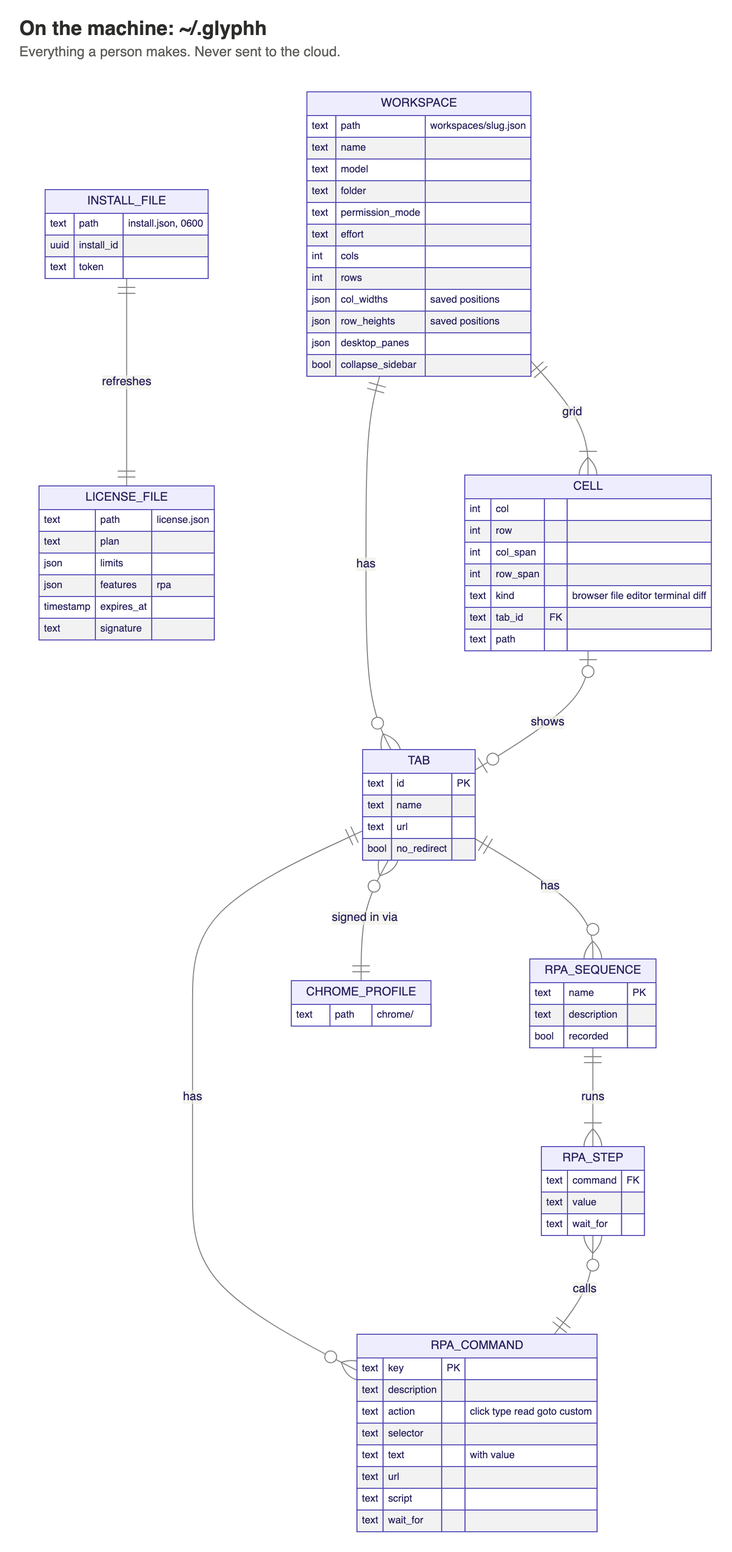
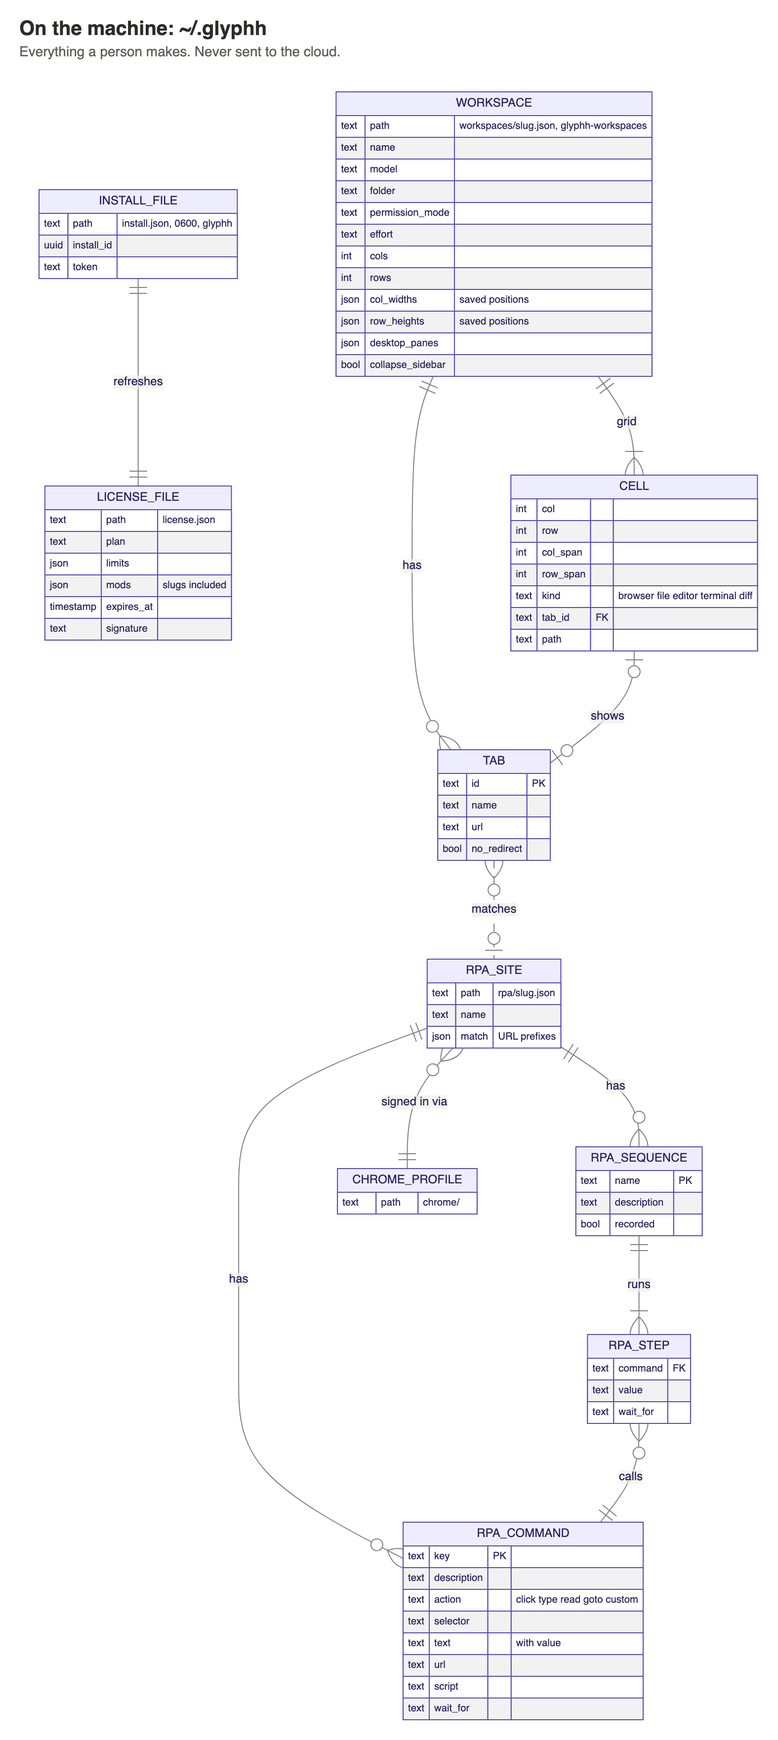
Architecture: Glyphh makes mods for Claude (Chris, 2026-10-14)
Separate mods from one marketplace (glyphh-ai/releases), one account and one
subscription: glyphh (account, license, panels and the browser machine, a
local MCP server serving MCP App panels), glyphh-workspaces and glyphh-rpa.
Pro and Team include every mod, new ones too; Free the free ones. Data model:
a mods catalog and plan_versions.all_mods replace the rpa flag; the license
carries the mods it includes; RPA sites live in ~/.glyphh/rpa.

diff --git a/docs/architecture.md b/docs/architecture.md
@@ -1,92 +1,146 @@
 # Glyphh
 
-The one doc for the relaunch (Chris, 2026-10-13): the [product](#product), the [architecture](#architecture), the [data model](#data-model) and the [plans](#plans). It replaces the programs, rrotor and machines architecture; that version is in git history (`25c1288`).
+The one doc for the relaunch (Chris, 2026-10-13 and 14): the [product](#product), the [architecture](#architecture), the [data model](#data-model) and the [plans](#plans). It replaces the programs, rrotor and machines architecture; that version is in git history (`25c1288`).
 
 ## Product
 
-Glyphh is a **Claude mod**: workspaces inside Claude. A workspace is a layout grid of live web tabs plus the Claude session it runs: model, folder, permission mode and effort. Switching workspaces switches all of it.
+**Glyphh makes mods for Claude, as a business** (Chris, 2026-10-14). A mod is a Claude Code plugin that adds commands, tools and panels to Claude. Each mod is its own product, installed on its own from one Glyphh marketplace; one Glyphh account and one subscription turn them on.
 
-- **Everything is in Claude.** Every screen is a panel Claude renders: sign in, account, members, invites, plan, seats. There is no Glyphh app, no Glyphh web UI and no server-rendered page.
-- **Desktop first, then the CLI.** The same mod runs in both. In the CLI it looks and feels CLI native.
-- **It looks like Claude.** Fonts and colors follow whichever Claude theme the person picked, on both surfaces.
+The first mods:
+
+| Mod | What it is | Plans |
+|---|---|---|
+| `glyphh` | The account: sign in, license, account, org, plan and billing panels, and the browser machine every other mod uses | Every plan; the others depend on it |
+| `glyphh-workspaces` | Workspaces: a layout grid of live web tabs plus the Claude session it runs (model, folder, permission mode, effort); switching workspaces switches all of it | Every plan; Free up to 2 workspaces |
+| `glyphh-rpa` | A website as tools: commands and sequences on a site, a live tab in a panel in Claude, take control, record a task once and run it | Pro and Team |
+
+- **Pro and Team include every mod**, and every mod as it ships, so the subscription grows in value. One mod sold on its own as an add-on can come later without a redesign.
+- **Everything is in Claude.** Every screen is a panel Claude shows. There is no Glyphh app and no Glyphh web UI; the only pages are the device sign-in's and Stripe's own.
+- **Desktop first, then the CLI.** The same mods run in both. In the CLI they look and feel CLI native.
+- **They look like Claude.** Fonts and colors follow the person's Claude theme.
 - **Functional first.** Every screen works before design draws it; design then builds the screens.
 
 ## Architecture
 
+![The whole system](img/architecture.png)
+
 ```mermaid
 flowchart TB
     subgraph Machine["The person's machine"]
-        Mod["Glyphh mod in Claude<br/>desktop and CLI, panels"]
-        Chrome["Helper Chrome<br/>tabs, sign-ins, RPA"]
-        Local[("~/.glyphh<br/>workspaces, layouts, RPA, profile")]
-        Mod --> Chrome
-        Mod --> Local
-        Chrome --> Local
+        subgraph Claude["Claude, desktop or CLI"]
+            Base["glyphh<br/>account, panels"]
+            WS["glyphh-workspaces"]
+            RPA["glyphh-rpa"]
+        end
+        BM["Browser machine<br/>glyphh's local MCP server"]
+        Chrome["Chrome<br/>tabs, sign-ins"]
+        Local[("~/.glyphh")]
+        Base --> BM
+        WS --> BM
+        RPA --> BM
+        BM --> Chrome
+        Base --> Local
+        WS --> Local
+        RPA --> Local
     end
 
     subgraph Cloud["Glyphh cloud"]
-        API["API server<br/>accounts, org, invites, seats, installs"]
+        API["API server<br/>accounts, org, seats, installs, license"]
         DB[("Postgres")]
         API --- DB
     end
 
+    Market["glyphh-ai/releases<br/>the marketplace"]
     Stripe["Stripe"]
     SignIn["Google, GitHub"]
 
-    Mod <-- "device flow, license, counts" --> API
+    Base <-- "device flow, license" --> API
+    Market -- "/plugin install" --> Claude
     API --> Stripe
     API --> SignIn
 ```
 
-Two parts: the mod on the machine, and one small server. **What a person makes stays on their machine; the cloud holds only who they are, their org and what they pay for.**
+Three parts: the mods on the machine, one small server, and the marketplace they are installed from. **What a person makes stays on their machine; the cloud holds only who they are, their org and what they pay for.**
 
-### The mod
+### Mods and how they are installed
 
-Built from `~/development/glyphh/workspaces` (its README holds what a Claude mod can and cannot do).
+- **A mod is a Claude Code plugin** whose hooks are a code module (`hooks/hooks.json` naming `register.tsx`, with `.claude-plugin/plugin.json`). It hooks Claude's events (session start, commands, tool calls, drawing) and reaches everything else through the engine (`$`): files, HTTP, processes, panels, MCP servers.
+- **Installed from the marketplace**, in a terminal: `/plugin install glyphh-workspaces --marketplace glyphh-ai/releases`. Installed at the user scope, a mod loads in every session, the desktop app's Code tab too. Every mod depends on `glyphh` (`plugin.json` `dependencies`).
+- **Source and releases are apart.** `glyphh-ai/glyphh` (private) holds the source, one folder per mod (`mods/glyphh`, `mods/glyphh-workspaces`, `mods/glyphh-rpa`), with their tests. `glyphh-ai/releases` (public) is the marketplace: `.claude-plugin/marketplace.json` listing every mod, and each mod as one built, minified module. Nobody installing a mod gets the source, the tests or the history.
+- **Each mod checks the license** when a session starts: a mod the license does not include draws only a panel that says which plans include it.
+- **Under development** a mod runs from its folder: `claude --plugin-dir <folder>`, or on the desktop linked into the session's mods folder with hot reloading.
+
+### Two kinds of panel
+
+| | Mod panels | MCP App panels |
+|---|---|---|
+| What | Drawn from Claude's own elements: boxes, text, buttons, inputs, selects, links, markdown, SVG | An HTML page with scripts, which an MCP tool returns (`text/html;profile=mcp-app`, at a `ui://` address) and Claude shows in a frame |
+| Can | Forms, lists, actions, at once on desktop and CLI | Live pictures, video, take control, anything a page can do; the host passes its theme as CSS variables (`--color-*`, `--font-*`) |
+| Cannot | Pictures (desktop), scripts, video | Draw in the CLI's own terminal |
+| Used for | Account, org, plan, billing, workspaces, a site's commands | A live tab, take control, record |
+
+Proved on 2026-10-12 (`glyphh-ai/server`, branch `proto/stream`): an MCP App panel in Claude showed a machine's screen live and took control of it. What it taught still holds: Claude's panel frame preflights every POST; tickets stay out of URLs; a panel's `ui://` address carries its version, since hosts keep its HTML by address.
+
+### `glyphh`: the account and the browser machine
+
+- **Sign in** by device flow: `/glyphh` shows the code and opens the link in Claude's browser pane (in the CLI, prints it); the person signs in with Google or GitHub; the mod, polling, gets the install's token. One sign-in serves every mod.
+- **License:** fetched and checked (Ed25519) at start and refreshed daily; every mod reads it.
+- **Panels** (mod panels): account, org, plan, billing.
+- **The browser machine:** `glyphh` ships a local MCP server (the plugin's own, started by Claude), which owns Chrome:
+    - Chrome driven over a private pipe (`--remote-debugging-pipe`), never a debugging port; one profile on disk, so a site signed in once stays signed in. One owner, since Chrome opens a profile once.
+    - Render, watch, take control, drive and record are its MCP tools; the other mods call them (`$.mcp.call`), and Claude calls those the mods allow.
+    - Its MCP App panels show a tab live (frames, or WebRTC where the frame allows it) with take control: the person's clicks, keys and paste go into the tab while Claude waits, and Claude sees no picture while they hold it, so a password or a code never reaches the model.
+    - Only this machine's Claude reaches it; other agents could pair with it later.
+
+### `glyphh-workspaces`
+
+Built from `~/development/glyphh/workspaces` (its README holds what a mod can and cannot do).
 
 - **Workspaces:** switch with `/dip`, by number or name. A workspace sets the session's model, folder, permission mode and effort, and opens its grid.
 - **Tabs:** each browser cell is a tab with a URL. **No redirect** keeps a tab in its cell when the site tries to hand itself to its native app (Slack, Teams, Zoom, Discord, Notion), as `glyphh-ai/app`'s `forceWeb` did.
-- **Live pages:** the helper Chrome renders every tab, driven over a private pipe (`--remote-debugging-pipe`), never a debugging port.
-    - **Desktop:** the layout as one page in Claude's browser pane, each tab as WebRTC video (JPEG when WebRTC fails); clicks, keys and scrolls go back over CDP.
+- **Live pages:** the browser machine renders every tab.
+    - **Desktop:** the layout as one page in Claude's browser pane (`/stream`), each tab as WebRTC video (JPEG when WebRTC fails); clicks, keys and scrolls go back.
     - **CLI:** frames drawn in the terminal with the kitty graphics protocol (Ghostty, kitty), the grid in characters, dividers dragged with the mouse.
-- **Sign-ins last:** the helper Chrome keeps one profile on disk, so a tab signed in once stays signed in across Claude restarts.
-- **RPA:** each tab can carry commands (click, type, read, go to, a script) and sequences of them, in `glyphh-ai/app`'s format (`src/shared/rpa.ts`). Each becomes a tool Claude can call. They run against the tab over CDP.
-- **Take control:** the person's clicks, keys and paste go into a tab while Claude waits; Claude sees no screenshot while they hold it, so a password or a code never reaches the model. Control is handed back with one click.
-- **Record:** the person does a task once in a tab and the helper captures each step (click, type, go to, with its selector) as an RPA sequence; they name it, fix or drop steps, test-run it and save it, and it becomes a tool. Recording happens in a panel in Claude: the tab live, with Record, Stop and the steps as they are captured.
-- **The helper is the machine.** Render, watch, take control, drive and record are the helper's own local API; the mod is its client. Only Claude uses it for now; other agents could pair with it later.
-- **Panels:** every account screen is a panel the mod renders in Claude, reading and writing the API.
-- **Theme:** the mod reads the person's Claude theme and draws with its fonts and colors.
+- **Saved as it is left:** dragged sizes are written back to the workspace's file.
+- **The limit:** the mod registers each workspace's name with the server when it creates one; past the plan's limit it is refused.
+- **Panel** (mod panel): list, create, edit (model, folder, permission mode, effort, grid, tabs), delete.
+
+### `glyphh-rpa`
+
+- **Sites:** a site is a URL it matches, with its commands (click, type, read, go to, a script, in `glyphh-ai/app`'s format, `src/shared/rpa.ts`) and sequences of them. Each command and sequence becomes a tool Claude can call; they run in the browser machine's tab for that site, so a workspace's tab on that site gets them too.
+- **Record:** the person does a task once in a live tab and each step (click, type, go to, with its selector) is captured as a sequence; they name it, fix or drop steps, test-run it and save it, and it becomes a tool.
+- **Panels:** the record panel (MCP App: the tab live, take control, Record and Stop, the steps as they are captured); a site's commands and sequences (mod panel: run, edit, delete).
 
 ### On the machine: `~/.glyphh`
 
 Nothing here goes to the cloud.
 
-| Path | What |
-|---|---|
-| `install.json` | This install's id and token, mode 0600 |
-| `license.json` | The signed license: plan, limits, features, expiry |
-| `workspaces/<slug>.json` | A workspace: model, folder, permission mode, effort, the grid with its saved positions, its tabs (URL, no redirect, RPA) |
-| `chrome/` | The helper Chrome's profile: the tabs' sign-ins |
-
-Positions dragged in the grid are written back to the workspace's file, so they are there when Claude opens again.
+| Path | Mod | What |
+|---|---|---|
+| `install.json` | `glyphh` | This install's id and token, mode 0600 |
+| `license.json` | `glyphh` | The signed license: plan, limits, mods, expiry |
+| `chrome/` | `glyphh` | The browser machine's Chrome profile: every site's sign-in |
+| `workspaces/<slug>.json` | `glyphh-workspaces` | A workspace: session, grid with its saved sizes, cells, tabs |
+| `rpa/<slug>.json` | `glyphh-rpa` | A site: what it matches, its commands and sequences |
 
 ### The server
 
-The `glyphh-ai/server` repo: Python 3.12+, FastAPI, Pydantic v2, SQLAlchemy 2 (async) on Postgres, in Docker. Built database first, then API, then SDK; 100% test coverage; errors with stable codes and a trace id; small files.
+The `glyphh-ai/server` repo: Python 3.13, FastAPI, Pydantic v2, SQLAlchemy 2 (async) on Postgres, in Docker. Built database first, then API; 100% test coverage; errors with stable codes and a trace id; small files.
 
-- **Sign in, by device flow (RFC 8628).** The mod asks for a code; the sign-in panel shows it and its link; the person signs in with Google or GitHub and approves; the mod, polling, gets the install's token. Each approval is an **install**.
+- **Sign in, by device flow (RFC 8628).** Each approval is an **install**: one machine, signed in once for every mod.
 - **Org.** The first user creates the org, is its admin and handles all billing. A user belongs to exactly one org. The admin invites members by email; an invite is accepted by signing in.
 - **Plans and seats.** Each seat is a member. The admin subscribes through Stripe and adds or removes seats; Stripe's webhooks keep the org's subscription and seat count true.
-- **License.** The server signs a short-lived license for each install (plan, limits, features, expiry) that the mod checks with its public key and refreshes. It carries what the mod gates locally (RPA).
+- **Mods.** The server keeps the catalog of mods. A plan version includes every mod (Pro, Team) or only the free ones (Free).
+- **License.** The server signs a short-lived license for each install (plan, limits, the mods it includes, expiry) that the mods check with its public key.
 - **Limits are enforced by the server**, at the moment they would be crossed:
     - **members:** an invite is refused when the org is at its plan's limit or out of seats;
     - **installs:** a device approval is refused when the user is at their limit;
-    - **workspaces:** the mod registers each workspace's name when it creates one and removes it when it deletes one; creating one past the limit is refused. Only the name and the user go to the server, nothing of what is in it.
-- **What goes:** machines, the machine link, threads, needs you, super powers, launch tickets, the relay and the MCP server.
+    - **workspaces:** creating one past the limit is refused. Only the name and the user go to the server, nothing of what is in it.
+- **What a mod gates locally** (a mod not in the license) can be edited out by someone determined; what is worth paying for is enforced here.
 
 ### API
 
-JSON over HTTPS under `/v1`, described by `/openapi.json`. Every call but the device flow's, the plans list and Stripe's webhook carries the install's token (`Authorization: Bearer`). Refusals are `{"error": {"code", "message", "trace_id"}}`; a limit reached is `E_LIMIT`, naming the limit, what is used and the plan that would lift it.
+JSON over HTTPS under `/v1`, described by `/openapi.json`. Every call but the device flow's, the plans and mods lists and Stripe's webhook carries the install's token (`Authorization: Bearer`). Refusals are `{"error": {"code", "message", "trace_id"}}`; a limit reached is `E_LIMIT`, with `limit`, `used`, `max` and the `plan` that would lift it.
 
 **Device flow** (RFC 8628):
 
@@ -102,12 +156,12 @@ Signing in the first time makes the person's org (Free, them its admin), unless 
 
 | Call | Does |
 |---|---|
-| `GET /v1/me` | The user, their org and role, the plan version and its limits, and what is used (members, seats, installs, workspaces) |
+| `GET /v1/me` | The user, their org and role, the plan version, its limits and mods, and what is used (members, seats, installs, workspaces) |
 | `PATCH /v1/me` `{name}` | Rename |
 | `GET /v1/installs` · `DELETE /v1/installs/{id}` | List installs; revoke one (signs that machine out) |
 | `POST /v1/sign-out` | Revoke this install |
-| `GET /v1/license` | This install's license, signed (Ed25519): plan, limits, features, `expires_at` (24 hours) |
-| `GET /v1/license/key` | The public key the mod checks it with |
+| `GET /v1/license` | This install's license, signed (Ed25519): plan, limits, `mods`, `expires_at` (24 hours) |
+| `GET /v1/license/key` | The public key the mods check it with |
 | `GET /v1/workspaces` · `POST /v1/workspaces` `{name}` · `PATCH /v1/workspaces/{name}` `{name}` · `DELETE /v1/workspaces/{name}` | The user's workspace names; creating one past `max_workspaces` is refused |
 
 **Org** (writes are the admin's):
@@ -119,14 +173,15 @@ Signing in the first time makes the person's org (Free, them its admin), unless 
 | `GET /v1/org/invites` · `POST /v1/org/invites` `{email}` · `DELETE /v1/org/invites/{id}` | Invites; one is refused past the plan's members or the seats bought. An invite answers with its link to share |
 | `POST /v1/invites/accept` `{token}` | An existing user joins: only when their own org has no one else and nothing paid, which is then removed |
 
-**Plans and billing** (writes are the admin's):
+**Mods, plans and billing** (writes are the admin's):
 
 | Call | Does |
 |---|---|
-| `GET /v1/plans` | Each plan's newest version: price per seat, limits, features |
+| `GET /v1/mods` | The catalog: each mod's slug, name, description, whether it is free, and the plans that include it |
+| `GET /v1/plans` | Each plan's newest version: price per seat, limits, its mods |
 | `POST /v1/billing/checkout` `{plan, seats}` | Stripe Checkout's address, to open in the browser pane |
 | `POST /v1/billing/plan` `{plan}` | Change plan: the newest version of it, prorated |
-| `POST /v1/billing/seats` `{seats}` | Change the seats; never below the members |
+| `POST /v1/billing/seats` `{seats}` | Change the seats; never below the members and open invites |
 | `POST /v1/billing/portal` | Stripe's portal address: card, invoices, cancel |
 | `POST /v1/stripe/webhook` | Stripe's events keep `orgs` true: plan version, seats, status |
 
@@ -134,20 +189,26 @@ Signing in the first time makes the person's org (Free, them its admin), unless 
 
 Each works before design draws it.
 
-1. **Sign in:** the code, the link, waiting, signed in.
-2. **Account:** name, email, sign-in providers, installs (revoke one), sign out.
-3. **Org:** name; members with their role (remove one); invites (send, revoke, pending).
-4. **Plan:** the current plan and its limits, what is used, change plan.
-5. **Billing** (admin): seats (add, remove), the card and invoices through Stripe's own pages.
-6. **Workspaces:** list, create, edit (model, folder, permission mode, effort, grid, tabs), delete.
-7. **Record:** a tab live with take control; Record and Stop; the captured steps (rename, fix, drop); test-run; save as a tool.
-8. **RPA:** a tab's commands and sequences; run, edit, delete.
+| Panel | Mod | Kind |
+|---|---|---|
+| Sign in: the code, the link, waiting, signed in | `glyphh` | Mod |
+| Account: name, email, providers, installs (revoke), sign out | `glyphh` | Mod |
+| Org: name, members (remove), invites (send, revoke) | `glyphh` | Mod |
+| Plan: plan, limits, usage, mods included, change plan | `glyphh` | Mod |
+| Billing (admin): seats, checkout, Stripe's portal | `glyphh` | Mod |
+| A live tab with take control | `glyphh` | MCP App |
+| Workspaces: list, create, edit, delete | `glyphh-workspaces` | Mod |
+| Record: the tab live, take control, Record and Stop, the steps, test-run, save | `glyphh-rpa` | MCP App |
+| A site's commands and sequences: run, edit, delete | `glyphh-rpa` | Mod |
+| Not in your plan: which plans include this mod | every mod | Mod |
 
 ### To prove first
 
-- **Google sign-in in the helper Chrome:** Google may refuse a sign-in in a Chrome under automation ("This browser or app may not be secure"). Gmail and Calendar tabs depend on it.
-- **Sign-in pages from a panel:** on desktop, Google's and GitHub's pages open in Claude's browser pane; in the CLI there is no pane, so they open in the system browser. Whether Google allows its page in the browser pane is to test.
-- **The theme:** whether a mod can read the active Claude theme, or has to read it from Claude's settings.
+- **MCP App panels from a plugin's local MCP server in the Code tab:** proved from the server's remote MCP; to prove from `glyphh`'s own local server, with one live tab and take control.
+- **Dependencies through the marketplace:** that installing `glyphh-workspaces` brings `glyphh` with it.
+- **A built mod loads:** that one minified module per mod loads and validates as its source does.
+- **Google sign-in in the browser machine's Chrome:** Google may refuse a sign-in in a Chrome under automation ("This browser or app may not be secure"). Gmail and Calendar tabs depend on it.
+- **Sign-in pages from a panel:** whether Google allows its sign-in page in Claude's browser pane.
 
 ## Data model
 
@@ -166,6 +227,7 @@ erDiagram
     USERS ||--o{ WORKSPACES : "owns"
     INSTALLS ||--o{ TOKENS : "holds"
     INSTALLS ||--o{ DEVICE_CODES : "approved by"
+    MODS }o..o{ PLAN_VERSIONS : "free, or all_mods"
     PLANS {
         uuid id PK
         text name
@@ -181,8 +243,16 @@ erDiagram
         int max_members
         int max_installs
         int max_workspaces
-        bool rpa
+        bool all_mods
         timestamp created_at
+    }
+    MODS {
+        text slug PK
+        text name
+        text description
+        bool free
+        bool active
+        int sort
     }
     ORGS {
         uuid id PK
@@ -202,9 +272,9 @@ erDiagram
         text role
     }
     IDENTITIES {
+        text provider PK
+        text provider_user_id PK
         uuid user_id FK
-        text provider
-        text provider_user_id UK
     }
     INVITES {
         uuid id PK
@@ -244,11 +314,12 @@ erDiagram
     }
 ```
 
-- **Plan versions never change.** Changing a plan's price or limits adds a version with its own Stripe price (Stripe prices cannot change either). An org stays on the version it subscribed to (`orgs.plan_version_id`), so an update never touches an org; new orgs get the newest version, and an org moves only when its admin changes plan or we migrate it on purpose.
+- **Plan versions never change their price or limits.** Changing either adds a version with its own Stripe price (Stripe prices cannot change either). An org stays on the version it subscribed to (`orgs.plan_version_id`), so an update never touches an org; new orgs get the newest version, and an org moves only when its admin changes plan or we migrate it on purpose.
+- **Which mods a version includes:** `all_mods` true includes every active mod, new ones as they ship (Pro, Team); false, only the free ones (Free). A mod once free stays free, so no org ever loses a mod it had.
 - **A limit left empty is unlimited.**
 - **One org per user:** `users.org_id`, not a memberships table. `role` is `admin` or `member`; the org's first user is its admin (`orgs.admin_user_id`).
 - **People are found by the provider's own id** (`identities`), never by email alone.
-- **Installs:** one per device-flow approval, with its surface (`desktop` or `cli`). Revoking one signs that machine out. Its tokens are stored hashed.
+- **Installs:** one per device-flow approval, one per machine for every mod, with its surface (`desktop` or `cli`). Revoking one signs that machine out. Its tokens are stored hashed.
 - **Workspaces:** names only, for the limit. Everything else about a workspace is in `~/.glyphh`.
 - **Tenant isolation:** row-level security keyed on the org.
 
@@ -258,9 +329,10 @@ erDiagram
 
 - **A workspace is one file**, `workspaces/<slug>.json`: its session (model, folder, permission mode, effort), its grid (columns, rows and their saved sizes), the desktop panes it opens, its cells and its tabs.
 - **A cell** sits at a column and row with its spans, and is a `browser` (showing one of the workspace's tabs), `file`, `editor`, `terminal` or `diff`.
-- **A tab** is a URL with its name and no redirect, and carries its RPA: commands, and sequences of steps that call them (`recorded` when made with Record).
-- **Every tab signs in through the one Chrome profile** (`chrome/`).
-- **`license.json`** is refreshed from the server through the install's token and carries the plan's limits and features.
+- **A tab** is a URL with its name and no redirect.
+- **A site is one file**, `rpa/<slug>.json`: what URLs it matches, its commands, and sequences of steps that call them (`recorded` when made with Record). A tab on a matching URL gets the site's tools.
+- **Every site signs in through the one Chrome profile** (`chrome/`).
+- **`license.json`** is refreshed from the server through the install's token and carries the plan's limits and mods.
 
 ## Plans
 
@@ -269,9 +341,9 @@ Billed per seat, per month. Installs and workspaces are per user.
 | | Free | Pro | Team |
 |---|---|---|---|
 | Price per seat | $0 | $8 | $16 |
+| Mods | `glyphh`, `glyphh-workspaces` | Every mod | Every mod |
 | Members | 1 | 1 | Unlimited |
 | Installs | 1 | 5 | 10 |
 | Workspaces | 2 | 10 | Unlimited |
-| RPA | No | Yes | Yes |
 
 Team's installs are capped so one seat can't be shared across a team's machines.
